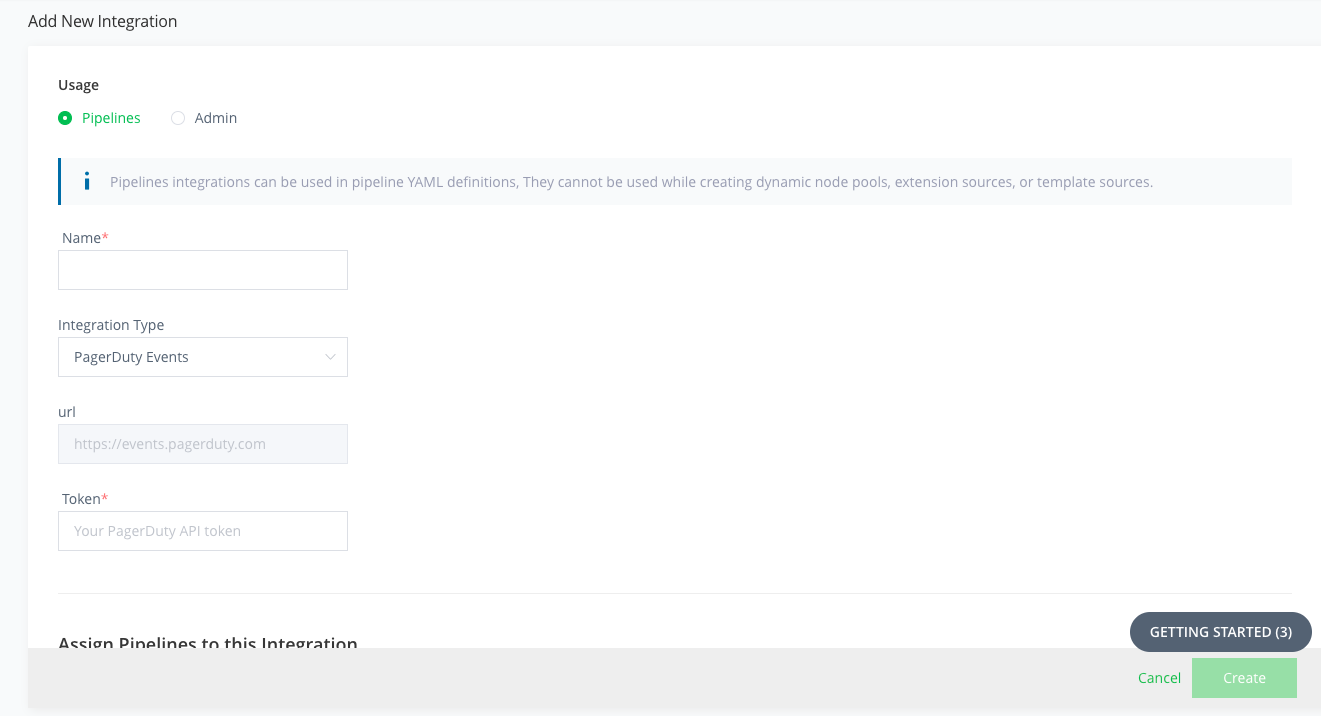
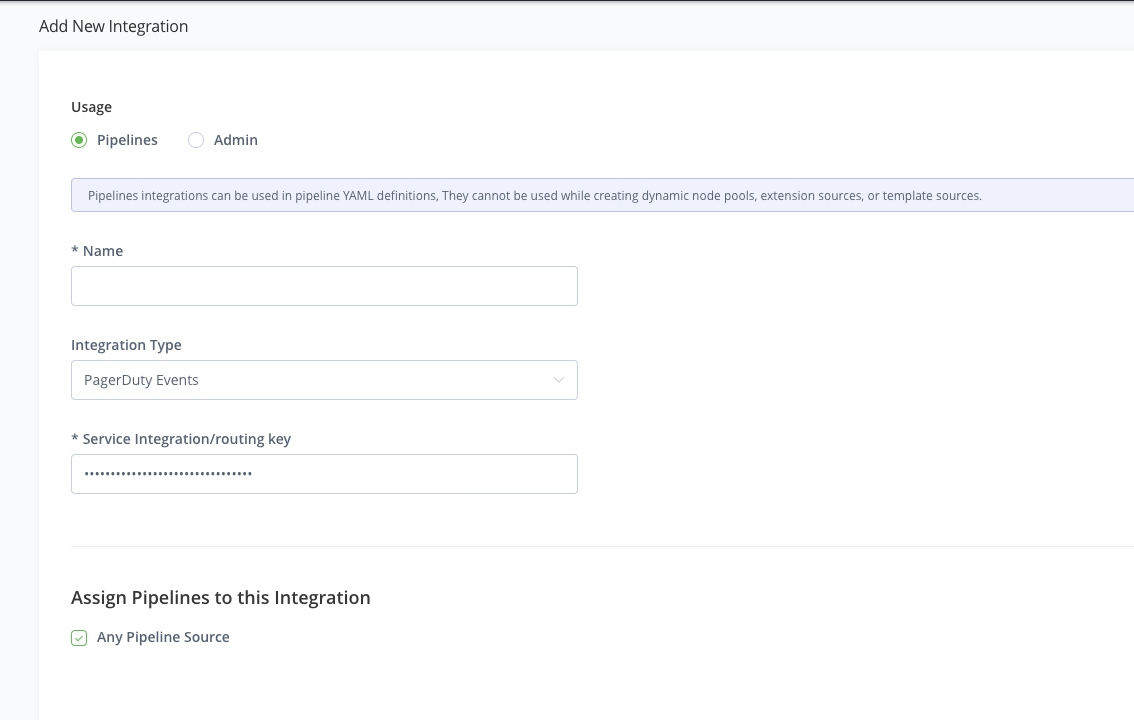
update docs and images

diff --git a/PagerDuty/Pipelines/BuildNotifications/README.md b/PagerDuty/Pipelines/BuildNotifications/README.md
@@ -21,20 +21,14 @@ Add JFrog Pipelines integration to an existing PagerDuty service or create a new
 1. From the **Configuration** menu, select **Services**.
 2. There are two ways to add an integration to a service:
    * **If you are adding your integration to an existing service**: Click the **name** of the service you want to add the integration to. Then, select the **Integrations** tab and click the **New Integration** button.
-   * **If you are creating a new service for your integration**: Please read our documentation in section [Configuring Services and Integrations](https://support.pagerduty.com/docs/services-and-integrations#section-configuring-services-and-integrations) and follow the steps outlined in the [Create a New Service](https://support.pagerduty.com/docs/services-and-integrations#section-create-a-new-service) section, selecting ***JFrog Pipelines + PagerDuty Notifications*** as the **Integration Type** in step 4. Continue with the In  ***JFrog Pipelines Setup***  section (below) once you have finished these steps.
+   * **If you are creating a new service for your integration**: Please read our documentation in section [Configuring Services and Integrations](https://support.pagerduty.com/docs/services-and-integrations#section-configuring-services-and-integrations) and follow the steps outlined in the [Create a New Service](https://support.pagerduty.com/docs/services-and-integrations#section-create-a-new-service) section, selecting ***JFrog Pipelines Changes*** as the **Integration Type** in step 4. Continue with the In  ***JFrog Pipelines Setup***  section (below) once you have finished these steps.
 3. Enter an **Integration Name** in the format `JFrog` and select  ***JFrog Pipelines + PagerDuty Notifications***  from the Integration Type menu.
 4. Click the **Add Integration** button to save your new integration. You will be redirected to the Integrations tab for your service.
-5. An **Integration Key** will be generated on this screen. This key can be stored into JFrog Pipelines as a resource or used directly as the `--routingkey` flag to `send_notification` in the yaml of a JFrog Pipeline.
+5. An **Integration Key** will be on this screen. This is the key that is called alternatively `routingKey` if used directly as the `--routingkey` flag to `send_notification` in the yaml of a JFrog Pipeline, or `integration` key when configuring the UI in pipelines. 
+This confusion is inherited from the inconsistencies in the [PagerDuty api docs](https://developer.pagerduty.com/docs/ZG9jOjExMDI5NTgy-send-a-change-event) 
 ![IntegrationKey](https://github.com/narayanss-jf/partner-integrations/blob/main/PagerDuty/Pipelines/BuildNotifications/IntegrationKey.png)
+![IntegrationKey](https://github.com/narayanss-jf/partner-integrations/blob/main/PagerDuty/Pipelines/BuildNotifications/IntegrationKey2.png)
 
-#### Creating a PagerDuty API Token
-An API token is also required for the JFrog Pipelines + Pagerduty Notifications integration. 
-
-1. Click on your avatar in the top right and `My Profile`
-![MyProfile](https://github.com/narayanss-jf/partner-integrations/blob/main/PagerDuty/Pipelines/BuildNotifications/MyProfile.png)
-2. Click on the `User Settings` tab and inside the `API Access` section click on `Create API User Token`
-![APIToken](https://github.com/narayanss-jf/partner-integrations/blob/main/PagerDuty/Pipelines/BuildNotifications/APIToken.png)
-3. Save the token we will use this when creating the integration in JFrog Pipelines for PagerDuty.
 
 
 ### In JFrog Pipelines
